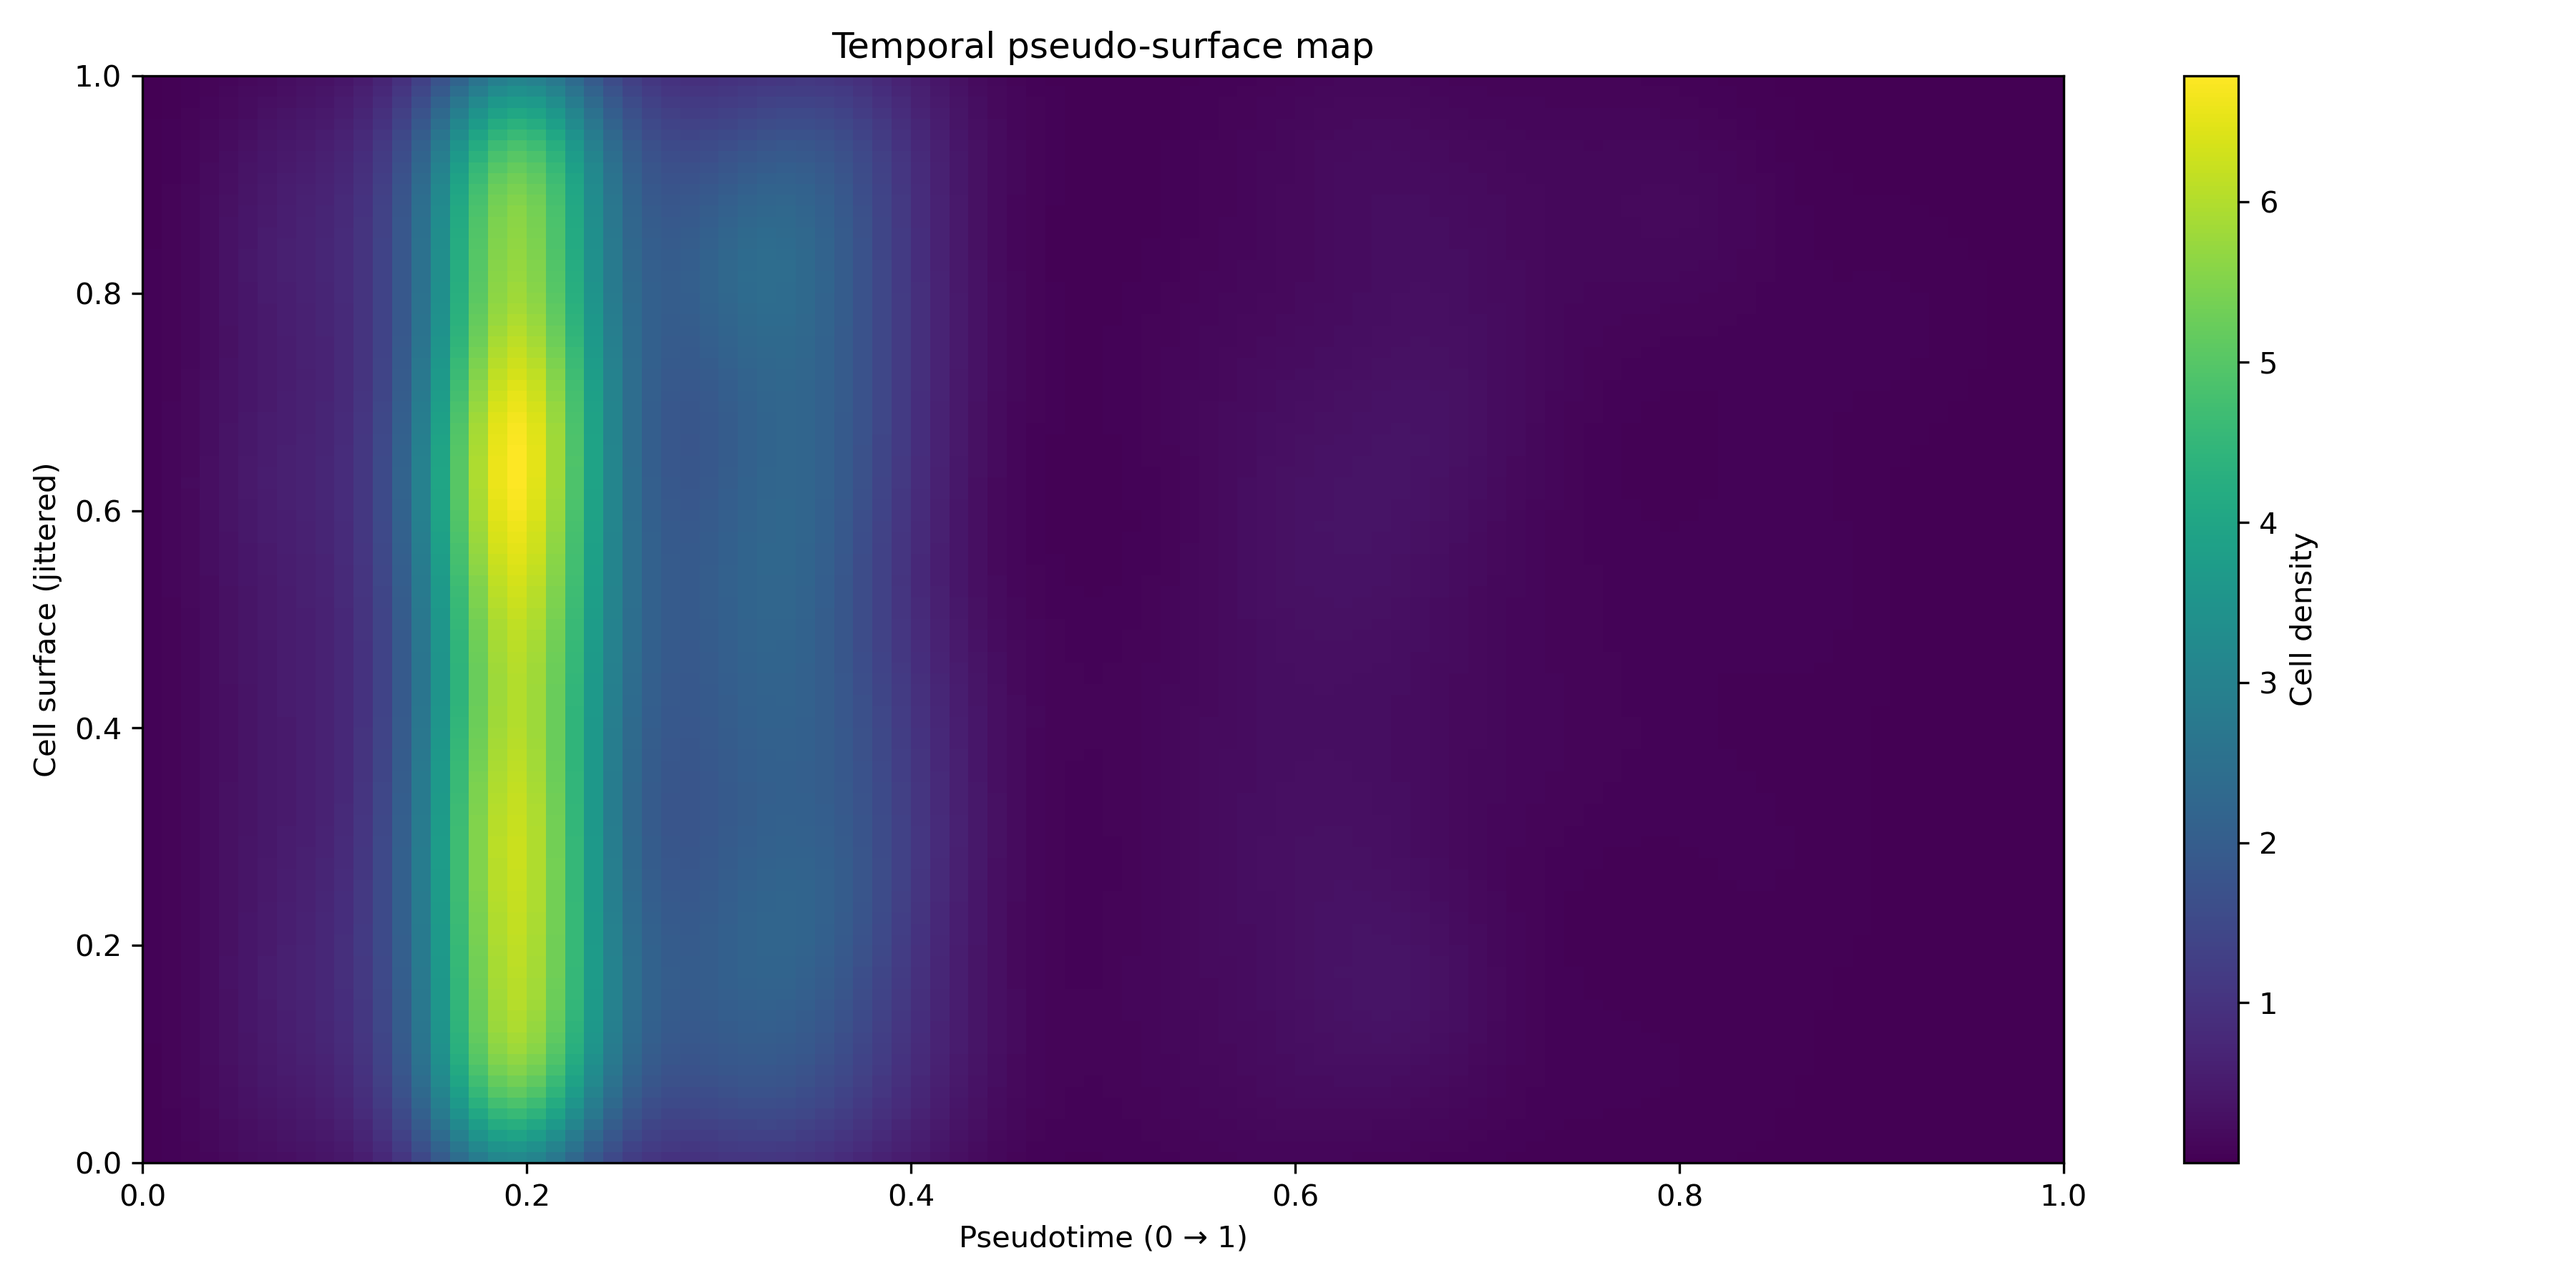
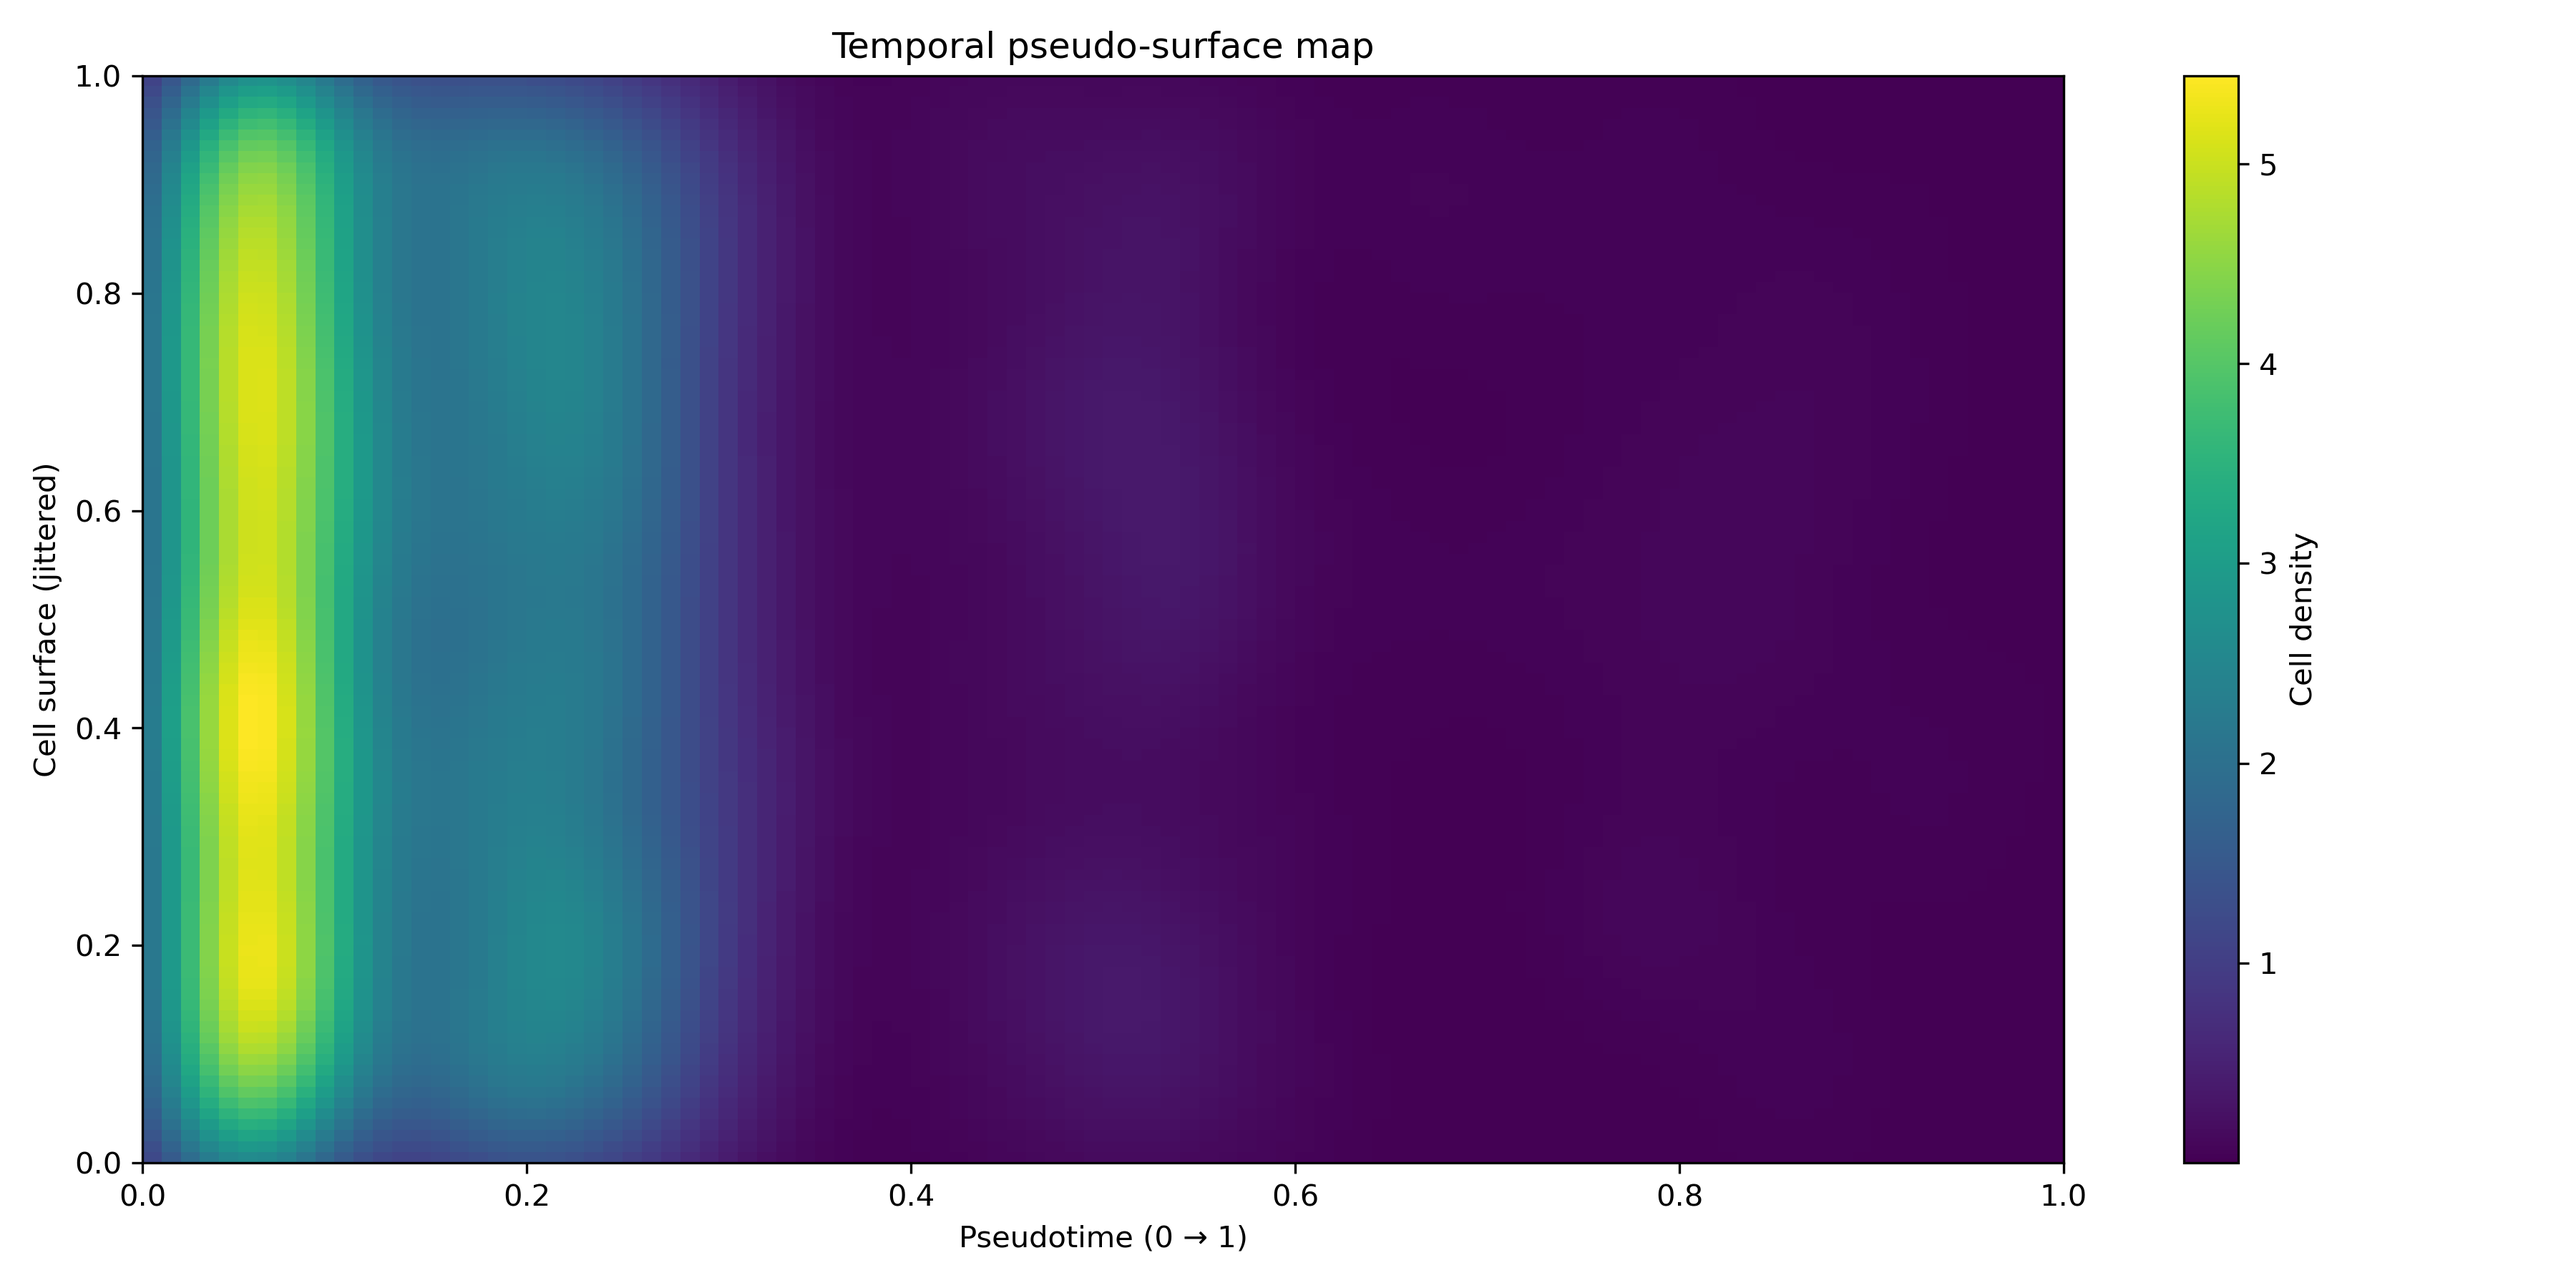
Update root cell in pseudomap and plots and text in readme

Changed region(s): [[0.0311, 0.0622, 0.3733, 0.9022]]

diff --git a/src/pseudomap_surface.py b/src/pseudomap_surface.py
@@ -1,10 +1,9 @@
-#!/usr/bin/env python3
-
 import argparse
 import scanpy as sc
 import numpy as np
 import matplotlib.pyplot as plt
 from scipy.stats import gaussian_kde
+from scipy.spatial.distance import cdist
 
 def parse_args():
     parser = argparse.ArgumentParser()
@@ -30,14 +29,26 @@ def main():
     else:
         print("✔ Using existing DiffMap")
 
+    # ---------------- Select root cell automatically ----------------
+    # Use DiffMap if available, otherwise PCA
+    if "X_diffmap" in adata.obsm:
+        embedding = adata.obsm["X_diffmap"]
+    else:
+        embedding = adata.obsm["X_pca"]
+    
+    # Find cell closest to origin (0-vector) in embedding space
+    distances = cdist(embedding, np.zeros((1, embedding.shape[1])))
+    root_cell = np.argmin(distances)
+    adata.uns['iroot'] = root_cell
+    print(f"✔ Root cell selected automatically: index {root_cell}")
+
     # ---------------- Pseudotime ----------------
-    adata.uns['iroot'] = 0  # automatic root
     sc.tl.dpt(adata, n_dcs=10)
     pseudotime = adata.obs['dpt_pseudotime'].values
     pseudotime = (pseudotime - pseudotime.min()) / (pseudotime.max() - pseudotime.min())  # normalize 0→1
 
     # ---------------- Y-axis: jittered cell positions ----------------
-    y = np.random.uniform(0, 1, size=pseudotime.shape)  # vertical jitter to represent surface
+    y = np.random.uniform(0, 1, size=pseudotime.shape)  # vertical jitter
 
     # ---------------- 2D Kernel Density ----------------
     xy = np.vstack([pseudotime, y])

diff --git a/README.md b/README.md
@@ -678,52 +678,52 @@ In short:
 
 ### Example in RGC 
 
-![](figures/pseudomap_surface_RGC_PseudoMap.png?v=1)
+![](figures/pseudomap_surface_RGC_PseudoMap.png?v=2)
+
+### What the Plot Shows
+
+#### X-axis (Pseudotime 0 → 1)
+Represents progression through a biological process (e.g., differentiation).
+
+#### Y-axis (Visual Jitter / Surface)
+Used to vertically separate cells for visualization; **not biologically meaningful**.  
+It allows the density of cells along pseudotime to form a smooth surface.
+
+#### Color Intensity (Density)
+- Brighter regions = higher cell density  
+- Darker regions = lower cell density  
 
 
-## Drawbacks of the plot: 
+### Interpretation of the Observed Pattern
 
-- Selecting first cell as a root: NOT IDEAL  -WORKING ON THAT 
+There is a very strong accumulation of cells early in pseudotime, with the highest density around approximately **0.05–0.1**. This suggests that many cells occupy an early transcriptional state.
 
-## What the Plot Shows
+A secondary, lower-density enrichment appears around approximately **0.2–0.25**, indicating another populated intermediate state.
 
-- **X-axis (Pseudotime 0 → 1)**  
-  Represents progression through a biological process (e.g., differentiation).
+There is a much weaker and more diffuse signal around approximately **0.5**, suggesting relatively few cells reach mid-to-late pseudotime states.
 
-- **Y-axis (visual jitter / surface)**  
-  Used to separate cells vertically for visualization; **not biologically meaningful**.  
-  It allows the density of cells along pseudotime to form a smooth surface.
+After approximately **0.6**, cell density becomes very low, indicating that only a small fraction of cells progress to late pseudotime states.
 
-- **Color intensity (density)**  
-  Brighter regions = higher cell density  
-  Darker regions = lower cell density  
-
-##### Interpretation of the Observed Pattern
-
-There is a strong accumulation around **pseudotime ~0.2**, suggesting:
-
-- Cells spend more time in this transcriptional state  
-- It may represent a **stable intermediate state**  
-- Could indicate a **regulatory checkpoint** along the trajectory  
-
-Lower density at later pseudotime indicates:
-
-- Fewer cells reach late states  
-- Late states may be transient  
-- Only a subset of cells progresses fully  
+Overall, this pattern suggests:
+- A large early population  
+- One or two intermediate states  
+- Progressive depletion of cells along the trajectory  
+- Late states that may be transient or reached by only a subset of cells  
 
 
-### 🚨🚨🚨 Why Nasal vs. Dorsal vs. Ventral  Is Not Shown
+## 🚨🚨🚨 Why Nasal vs. Dorsal vs. Ventral Is Not Shown
 
-- The current scRNA-seq dataset does **not contain spatial coordinates**.  
-- There is **no metadata indicating anatomical position**.  
-- Cells were likely dissociated, so spatial origin is lost.  
+The current scRNA-seq dataset does **not** contain spatial coordinates.  
+There is **no metadata indicating anatomical position**.  
+Cells were likely dissociated prior to sequencing, so spatial origin is not preserved.
 
 Without:
+- Pre-labeled regional metadata  
+- Spatial transcriptomics data  
+- Computational mapping using region-specific marker genes  
 
-- Pre-labeled region information, or  
-- Spatial transcriptomics data, or  
-- Computational mapping using known marker genes  
+Anatomical distinctions such as nasal, dorsal, or ventral cannot be inferred from this plot alone.
+
 
 
 
